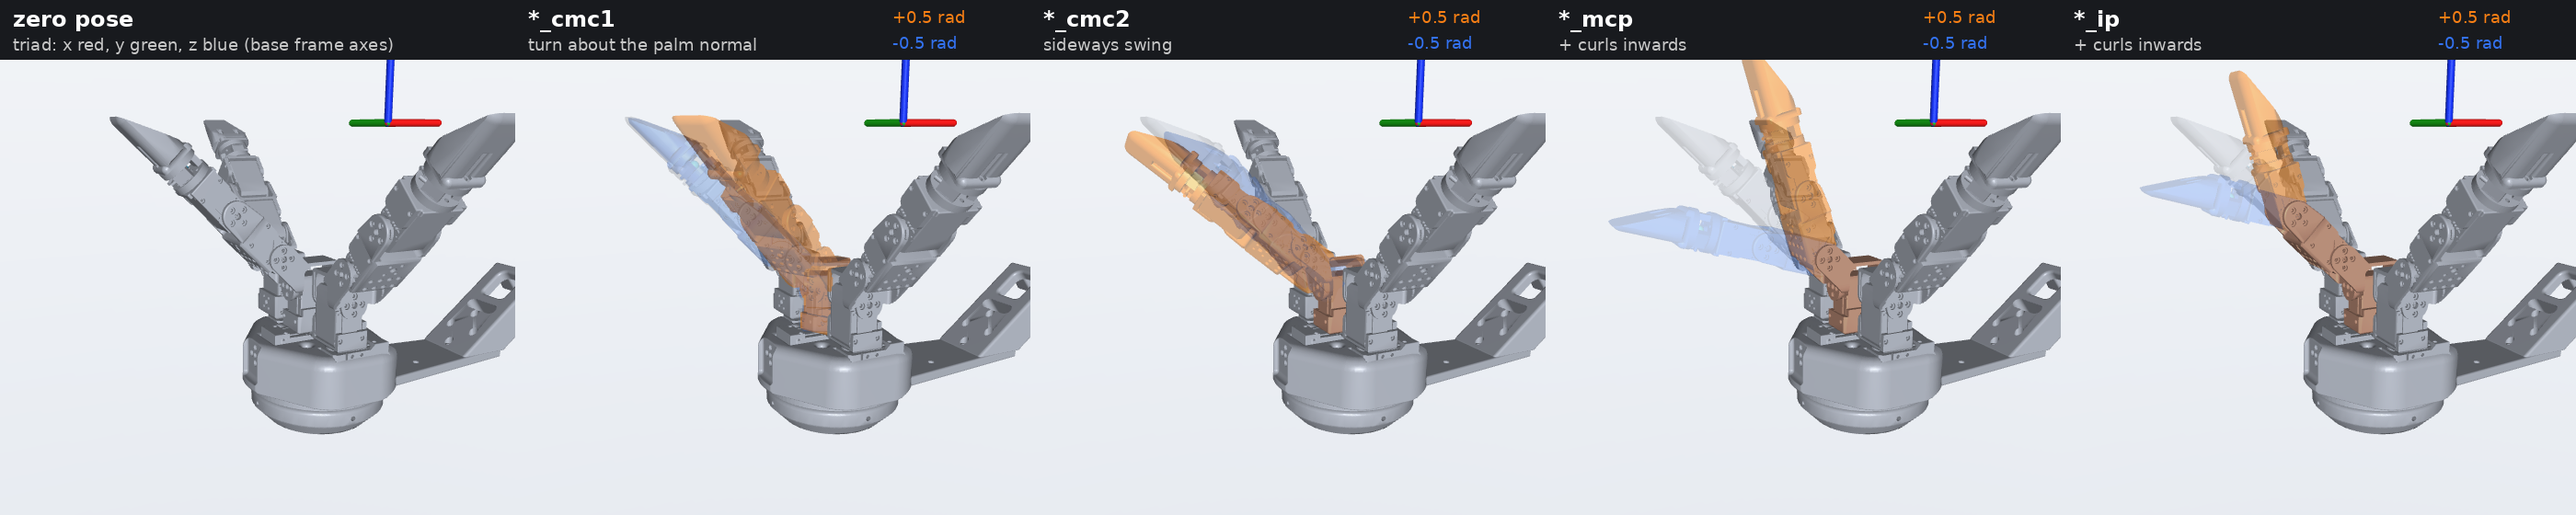
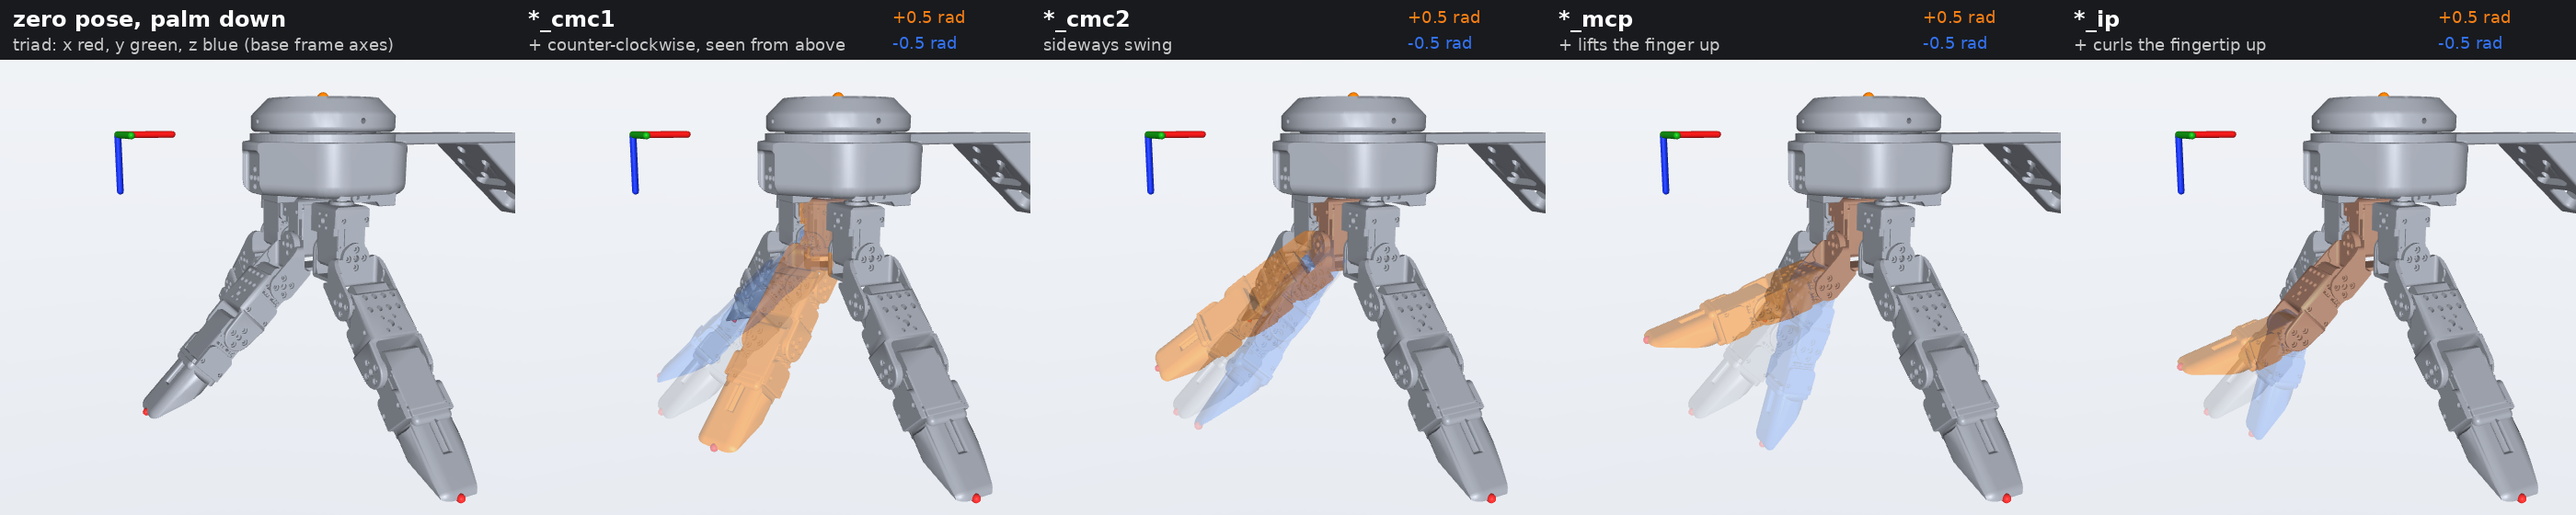
Sim: match joint signs and fingertip sensor frame to the real hand
All 12 joint axes were opposite to the real servos: flip them, so that +q
matches a rising servo count on a hand built as in the assembly guide
(mcp/ip lift towards the palm, cmc1 counter-clockwise seen from the back
of the hand). The zero pose is unchanged.

The fingertip force_site had +X pointing away from the palm, opposite to
the sensor frame in force_calibration.md: turn it 180 deg about Z. IP +q
now moves the fingertip along +X. scene.xml had stale left/right site
orientations; they now match dexremo_hand.xml.

build_model.py applies both changes on output, and the joint convention
figure is drawn palm down, as the hand is mounted.

diff --git a/sim/tools/convention_figure.py b/sim/tools/convention_figure.py
@@ -1,15 +1,19 @@
 """Joint sign convention figure: for each joint type of the middle finger, overlay -0.5 rad (blue), zero (grey) and +0.5 rad (orange).
+The hand is drawn palm down, the way it is mounted on the arm.
 Usage: python3 convention_figure.py <hand.xml> <out.png>"""
 import os, sys
 os.environ.setdefault("MUJOCO_GL", "egl")
 import mujoco, numpy as np
 from PIL import Image, ImageDraw, ImageFont
 xml = open(sys.argv[1]).read().replace("../meshes", os.path.abspath(os.path.join(os.path.dirname(sys.argv[1]), "..", "meshes")))
+# Turn the hand palm down (180 deg about x) by wrapping it in a mount body; the triad shows the base frame axes, turned with it.
 xml = xml.replace("  <worldbody>", '  <visual><headlight diffuse="0.75 0.75 0.75" ambient="0.4 0.4 0.4"/></visual>\n'
   '  <asset><texture name="sky" type="skybox" builtin="gradient" rgb1="1 1 1" rgb2="0.88 0.9 0.93" width="256" height="256"/></asset>\n  <worldbody>\n'
-  '    <geom type="capsule" fromto="0.03 -0.05 0.26 0.08 -0.05 0.26" size="0.003" rgba="0.9 0.1 0.1 1" contype="0" conaffinity="0" group="2"/>\n'
-  '    <geom type="capsule" fromto="0.03 -0.05 0.26 0.03 0.00 0.26" size="0.003" rgba="0.1 0.7 0.1 1" contype="0" conaffinity="0" group="2"/>\n'
-  '    <geom type="capsule" fromto="0.03 -0.05 0.26 0.03 -0.05 0.31" size="0.003" rgba="0.1 0.2 0.9 1" contype="0" conaffinity="0" group="2"/>', 1)
+  '  <body name="mount" quat="0 1 0 0">\n'
+  '    <geom type="capsule" fromto="-0.15 -0.10 0.03 -0.10 -0.10 0.03" size="0.003" rgba="0.9 0.1 0.1 1" contype="0" conaffinity="0" group="2"/>\n'
+  '    <geom type="capsule" fromto="-0.15 -0.10 0.03 -0.15 -0.05 0.03" size="0.003" rgba="0.1 0.7 0.1 1" contype="0" conaffinity="0" group="2"/>\n'
+  '    <geom type="capsule" fromto="-0.15 -0.10 0.03 -0.15 -0.10 0.08" size="0.003" rgba="0.1 0.2 0.9 1" contype="0" conaffinity="0" group="2"/>', 1)
+xml = xml.replace("  </worldbody>", "  </body>\n  </worldbody>", 1)
 m = mujoco.MjModel.from_xml_string(xml); d = mujoco.MjData(m)
 m.geom_rgba[[i for i in range(m.ngeom) if m.geom_group[i] == 3]] = 0
 m.vis.scale.framelength = 0.9; m.vis.scale.framewidth = 0.04
@@ -18,24 +22,25 @@ m.vis.global_.offwidth, m.vis.global_.offheight = W, H
 r = mujoco.Renderer(m, height=H, width=W)
 opt = mujoco.MjvOption(); opt.frame = mujoco.mjtFrame.mjFRAME_NONE
 GREY, BLUE, ORANGE = (0.62, 0.64, 0.68), (0.20, 0.45, 0.95), (0.98, 0.50, 0.08)
-vis = [g for g in range(m.ngeom) if m.geom_group[g] == 2 and m.geom_bodyid[g] > 0]
+mount = mujoco.mj_name2id(m, mujoco.mjtObj.mjOBJ_BODY, "mount")
+vis = [g for g in range(m.ngeom) if m.geom_group[g] == 2 and m.geom_bodyid[g] not in (0, mount)]   # hand links, not the triad
 bname = lambda g: mujoco.mj_id2name(m, mujoco.mjtObj.mjOBJ_BODY, m.geom_bodyid[g])
 def colour(finger_rgb):
     for g in vis: m.geom_rgba[g] = (*(finger_rgb if bname(g).startswith("mid_") else GREY), 1)
 mujoco.mj_forward(m, d)
 cam = mujoco.MjvCamera(); cam.lookat[:] = d.xpos[[i for i in range(m.nbody) if (mujoco.mj_id2name(m, mujoco.mjtObj.mjOBJ_BODY, i) or "").startswith("mid_")]].mean(0)
-cam.lookat[:] = (-0.06, 0.0, 0.15); cam.distance = 0.52; cam.azimuth = 65; cam.elevation = -12
+cam.lookat[:] = (-0.06, 0.0, -0.13); cam.distance = 0.52; cam.azimuth = 65; cam.elevation = -12
 def shot(qj, val, rgb):
     d.qpos[:] = 0
     if qj is not None: d.qpos[m.jnt_qposadr[qj]] = val
     colour(rgb); mujoco.mj_forward(m, d); r.update_scene(d, cam, opt); return Image.fromarray(r.render()).convert("RGB")
 fb = ImageFont.truetype("/usr/share/fonts/truetype/dejavu/DejaVuSans-Bold.ttf", 24)
 fs = ImageFont.truetype("/usr/share/fonts/truetype/dejavu/DejaVuSans.ttf", 18)
-DESC = {"mid_cmc1": "turn about the palm normal", "mid_cmc2": "sideways swing", "mid_mcp": "+ curls inwards", "mid_ip": "+ curls inwards"}
+DESC = {"mid_cmc1": "+ counter-clockwise, seen from above", "mid_cmc2": "sideways swing", "mid_mcp": "+ lifts the finger up", "mid_ip": "+ curls the fingertip up"}
 tiles = []
 z = shot(None, 0, GREY)
 dr = ImageDraw.Draw(z); dr.rectangle((0, 0, W, 64), fill=(24, 26, 30))
-dr.text((14, 6), "zero pose", font=fb, fill=(255, 255, 255)); dr.text((14, 38), "triad: x red, y green, z blue (base frame axes)", font=fs, fill=(200, 200, 200))
+dr.text((14, 6), "zero pose, palm down", font=fb, fill=(255, 255, 255)); dr.text((14, 38), "triad: x red, y green, z blue (base frame axes)", font=fs, fill=(200, 200, 200))
 tiles.append(z)
 for n in ["mid_cmc1", "mid_cmc2", "mid_mcp", "mid_ip"]:
     j = mujoco.mj_name2id(m, mujoco.mjtObj.mjOBJ_JOINT, n)

diff --git a/sim/tools/build_model.py b/sim/tools/build_model.py
@@ -19,6 +19,7 @@ DENSITY = {"pla": 1240.0, "steel": 7850.0}          # kg/m^3; printed parts take
 MATERIAL = {"tension-sensor": "steel"}               # bought load cells; every other non-servo part is printed PLA
 EFFORT, VELOCITY = 1.9, 4.7                          # N m, rad/s (STS3215 at 7.4 V, to confirm)
 LIMIT = math.radians(90)                             # placeholder range +-90 deg until measured limits arrive
+AXIS_SIGN = -1   # the CAD joint directions are opposite to the real servos; flip every axis on output so +q matches the hardware
 # --------------------------------------------------------------------------------
 
 # base frame: centre of the Franka flange's mounting face; a hand without the flange (the leader device) uses the centre of
@@ -91,11 +92,12 @@ for f, chain in FINGERS.items():
             tip = [i for i in members if np.dot((np.array(P[i]["bbox_min_mm"]) + np.array(P[i]["bbox_max_mm"])) / 2000 - site, n) > 0]
             LINKS.append((name, parent_name, {"name": "%s_%s" % (f, JNAMES[k]), "point": pt, "axis": ax}, [i for i in members if i not in tip], pt))
             LINKS.append(("%s_tip" % f, name, {"name": "%s_tip_fixed" % f, "point": site, "axis": None}, tip, site))
-            # sensor +X: towards the single load cell (the one not split across the IP axis); Y = Z x X is then parallel to the IP axis
+            # sensor +X: towards the palm, the way the real sensor is mounted (assembly guide, step 10). The CAD has the single load
+            # cell on the far side, so take the direction away from it. Y = Z x X is then parallel to the IP axis.
             cc = [(np.array(P[i]["bbox_min_mm"]) + np.array(P[i]["bbox_max_mm"])) / 2000 for i in cells]
             ip_ = [v - site - np.dot(v - site, n) * n for v in cc]
             single = min(ip_, key=lambda v: abs(np.dot(v / np.linalg.norm(v), ax)))
-            xd = np.cross(ax, n); xd = xd / np.linalg.norm(xd) * np.sign(np.dot(xd, single))   # exactly normal to the IP axis
+            xd = np.cross(ax, n); xd = -xd / np.linalg.norm(xd) * np.sign(np.dot(xd, single))   # exactly normal to the IP axis
             SENSORS.append({"finger": f, "body": "%s_tip" % f, "pos": site, "normal": n, "xdir": xd})
             TIPS.append({"finger": f, "body": "%s_tip" % f, "pos": tip_pt})
         else:
@@ -171,7 +173,7 @@ for name, parent, joint, idxs, frame in LINKS:
         else:
             U.append('  <joint name="%s" type="revolute"><parent link="%s"/><child link="%s"/><origin xyz="%s"/><axis xyz="%s"/>'
                      '<limit lower="%.4f" upper="%.4f" effort="%.2f" velocity="%.2f"/><dynamics damping="0.1"/></joint>'
-                     % (joint["name"], parent, name, xyz(frame - po), xyz(joint["axis"]), -LIMIT, LIMIT, EFFORT, VELOCITY))
+                     % (joint["name"], parent, name, xyz(frame - po), xyz(AXIS_SIGN * joint["axis"] + 0.0), -LIMIT, LIMIT, EFFORT, VELOCITY))
 U.append('</robot>')
 open(os.path.join(OUT, "urdf", MODEL + ".urdf"), "w").write("\n".join(U) + "\n")
 
@@ -185,7 +187,7 @@ def body(L_, depth):
     out = ['%s<body name="%s" pos="%s">' % (pad, name, xyz(frame - po))]
     out.append('%s  <inertial pos="%s" mass="%.5f" fullinertia="%.3e %.3e %.3e %.3e %.3e %.3e"/>' % (pad, xyz(com), m, I[0, 0], I[1, 1], I[2, 2], I[0, 1], I[0, 2], I[1, 2]))
     if joint and joint["axis"] is not None:
-        out.append('%s  <joint name="%s" axis="%s" range="%.4f %.4f"/>' % (pad, joint["name"], xyz(joint["axis"]), -LIMIT, LIMIT))
+        out.append('%s  <joint name="%s" axis="%s" range="%.4f %.4f"/>' % (pad, joint["name"], xyz(AXIS_SIGN * joint["axis"] + 0.0), -LIMIT, LIMIT))
     out.append('%s  <geom class="visual" mesh="%s"/>' % (pad, name))
     for k in range(len(idxs)): out.append('%s  <geom class="collision" mesh="%s_%d"/>' % (pad, name, k))
     if name == "base_link": out.append('%s  <site name="%s" pos="0 0 0" size="0.005" rgba="1 0.5 0 1"/>' % (pad, ATTACH))

diff --git a/sim/README.md b/sim/README.md
@@ -41,7 +41,7 @@ python -m mujoco.viewer --mjcf=mjcf/scene.xml
 ## Frames
 
 - **Base frame (`base_link`)**: the origin sits at the centre of the Franka flange's mounting face, and +z points out of the flange towards the fingers. This is also the `franka_attach` site in the MJCF. The leader model is the exception: see above.
-- **Fingertip force frame (`{finger}_force_site`, force-sensing version only)**: the site lies on the mid-plane of the force sensor. Its axes match the sensor frame used for [calibration](../hardware/force_calibration.md#sensor-frame-and-load-cell-names): z along the sensor-plate normal, pointing out of the fingertip; x towards the single load cell, which is the direction the fingertip moves when the finger curls in; y = z × x, parallel to the IP axis.
+- **Fingertip force frame (`{finger}_force_site`, force-sensing version only)**: the site lies on the mid-plane of the force sensor. Its axes match the sensor frame used for [calibration](../hardware/force_calibration.md#sensor-frame-and-load-cell-names): z along the sensor-plate normal, pointing out of the fingertip; x towards the single load cell and the palm, which is the direction the fingertip moves when the IP joint turns towards +q; y = z × x, parallel to the IP axis.
 - **Fingertip point (`{finger}_tip_site`, all versions)**: the far end of the fingertip.
 
 ## Zero pose
@@ -58,20 +58,20 @@ The zero pose (`q = 0`) is the calibration pose of the real hand and of the lead
 
 There are 12 revolute joints, four per finger, named `{left|mid|right}_{cmc1|cmc2|mcp|ip}`. All joint angles are in radians.
 
-The positive direction of each joint is defined by this model and is the same on all three fingers. If you drive the real hand, map each servo's sign to this convention once in your driver.
+The positive direction of each joint is the same on all three fingers and matches the real hand's servos: a servo built in as in the [assembly guide](../hardware/assembly/README.md) turns the joint towards +q when its position count goes up. The teleoperation code in [`../teleop/`](../teleop/) uses this convention.
 
 ![Joint convention](docs/joint_convention.png)
 
-Orange shows +0.5 rad, blue shows -0.5 rad and grey shows zero.
+The figure shows the hand palm down, the way it is mounted on the arm. Orange shows +0.5 rad, blue shows -0.5 rad and grey shows zero.
 
 For each finger, let *u* be its outward direction in the palm plane: -x for `mid`, +y for `left` and -y for `right`.
 
 | Joint | Axis at zero pose | What +q does |
 |---|---|---|
-| `*_cmc1` | +z (palm normal) | turns the whole finger counter-clockwise, seen from the fingertip side |
-| `*_cmc2` | *u* | swings the finger sideways, counter-clockwise when seen from outside looking towards the palm centre |
-| `*_mcp`  | *u* × z | curls the finger inwards, towards the palm centre |
-| `*_ip`   | *u* × z | curls the fingertip inwards |
+| `*_cmc1` | -z (palm normal) | turns the whole finger counter-clockwise, seen from the back of the hand (the flange side) |
+| `*_cmc2` | -*u* | swings the finger sideways, clockwise when seen from outside looking towards the palm centre |
+| `*_mcp`  | z × *u* | lifts the finger towards the palm (up, with the hand mounted palm down) |
+| `*_ip`   | z × *u* | curls the fingertip towards the palm |
 
 All axes follow the right-hand rule. Joint ranges are set to ±90° around the zero pose for simulation only; they are not the hardware limits.
 

diff --git a/sim/README_zh.md b/sim/README_zh.md
@@ -41,7 +41,7 @@ python -m mujoco.viewer --mjcf=mjcf/scene.xml
 ## 坐标系
 
 - **基坐标系（`base_link`）**：原点在 Franka 法兰安装面的中心，+z 从法兰指向手指。它也是 MJCF 里的 `franka_attach` site。主手模型例外，见上文。
-- **指尖力坐标系（`{finger}_force_site`，只有力传感版本有）**：site 在力传感器的中间平面上。坐标轴和[标定](../hardware/force_calibration_zh.md#坐标系和传感器编号)用的传感器坐标系一致：z 沿传感器板法向，从指尖指向外；x 指向单独的那个拉压力传感器，也就是手指向内弯时指尖移动的方向；y = z × x，和 IP 转轴平行。
+- **指尖力坐标系（`{finger}_force_site`，只有力传感版本有）**：site 在力传感器的中间平面上。坐标轴和[标定](../hardware/force_calibration_zh.md#坐标系和传感器编号)用的传感器坐标系一致：z 沿传感器板法向，从指尖指向外；x 指向单独的那个拉压力传感器，也指向手掌，也就是 IP 关节往 +q 转时指尖移动的方向；y = z × x，和 IP 转轴平行。
 - **指尖点（`{finger}_tip_site`，所有版本都有）**：指尖的最远端。
 
 ## 零位
@@ -58,20 +58,20 @@ python -m mujoco.viewer --mjcf=mjcf/scene.xml
 
 一共 12 个转动关节，每指 4 个，命名为 `{left|mid|right}_{cmc1|cmc2|mcp|ip}`。关节角单位都是弧度。
 
-每个关节的正方向由这个模型定义，三根手指相同。驱动真实的手时，在驱动程序里把每个舵机的正负方向对应到这个约定上，只需要做一次。
+每个关节的正方向三根手指相同，并且和实机舵机一致：按[装配教程](../hardware/assembly/README_zh.md)装好的舵机，位置读数变大时关节就往 +q 方向转。[`../teleop/`](../teleop/) 里的遥操作代码用的就是这个约定。
 
 ![关节方向](docs/joint_convention.png)
 
-橙色是 +0.5 rad，蓝色是 -0.5 rad，灰色是零位。
+图里的手是手掌朝下，和装在机械臂上时一样。橙色是 +0.5 rad，蓝色是 -0.5 rad，灰色是零位。
 
 对每根手指，记 *u* 为它在手掌平面内朝外的方向：`mid` 为 -x，`left` 为 +y，`right` 为 -y。
 
 | 关节 | 零位时的转轴 | +q 的效果 |
 |---|---|---|
-| `*_cmc1` | +z（手掌法向） | 整根手指逆时针转动（从指尖那一侧看） |
-| `*_cmc2` | *u* | 手指向侧面摆动，从外面朝手掌中心看是逆时针 |
-| `*_mcp`  | *u* × z | 手指向内弯，朝手掌中心 |
-| `*_ip`   | *u* × z | 指尖向内弯 |
+| `*_cmc1` | -z（手掌法向） | 整根手指逆时针转动（从手背、也就是法兰那一侧看） |
+| `*_cmc2` | -*u* | 手指向侧面摆动，从外面朝手掌中心看是顺时针 |
+| `*_mcp`  | z × *u* | 手指朝手掌方向抬起（手掌朝下安装时是往上） |
+| `*_ip`   | z × *u* | 指尖朝手掌方向弯 |
 
 所有转轴都按右手定则。关节范围在零位两侧各 ±90°，只用于仿真，不是硬件的限位。
 
